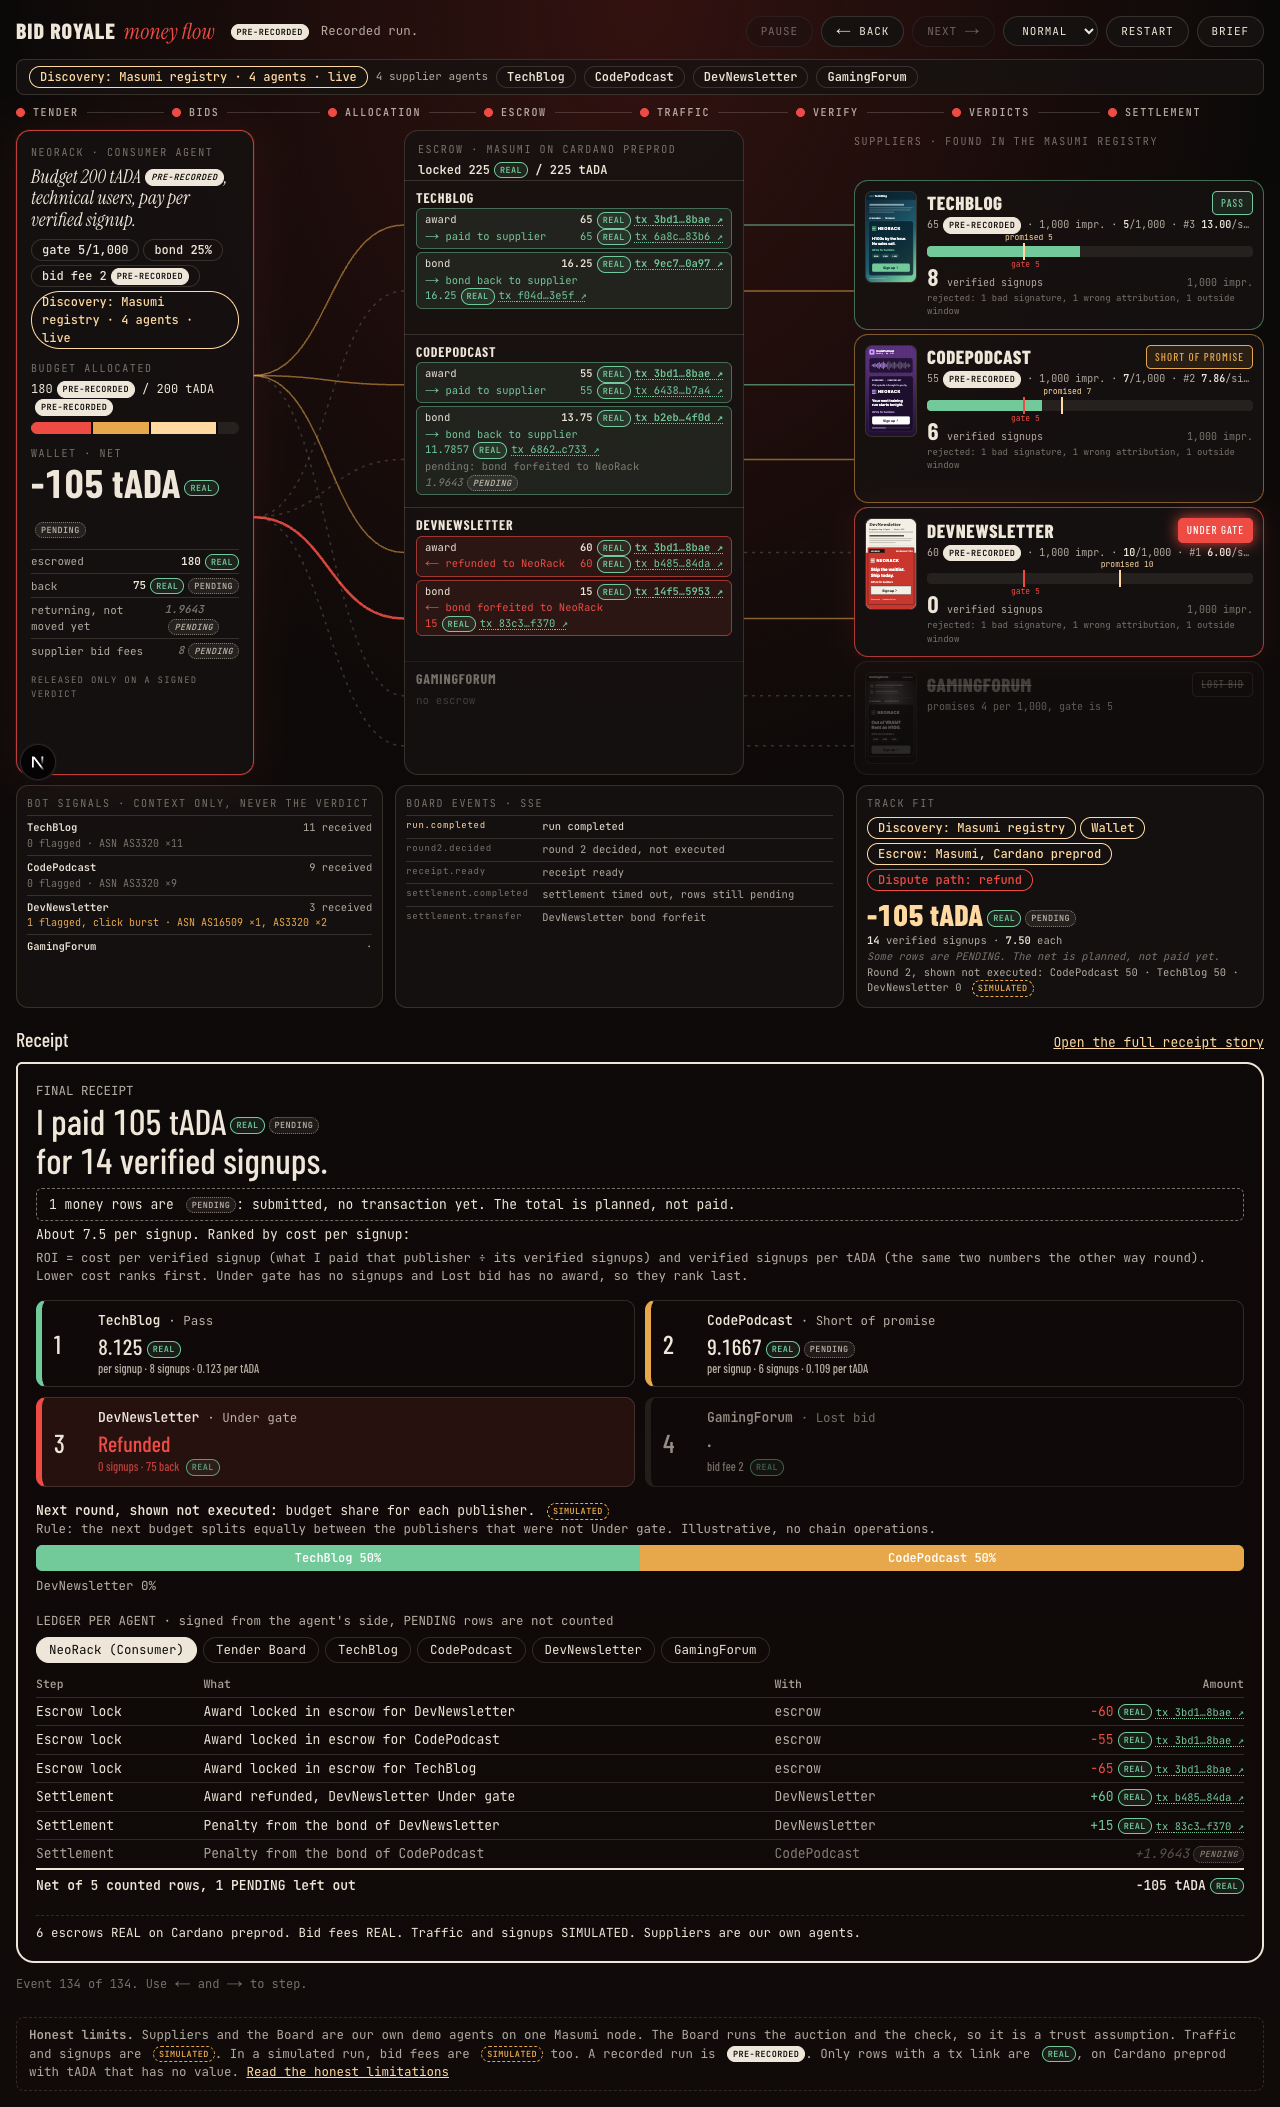
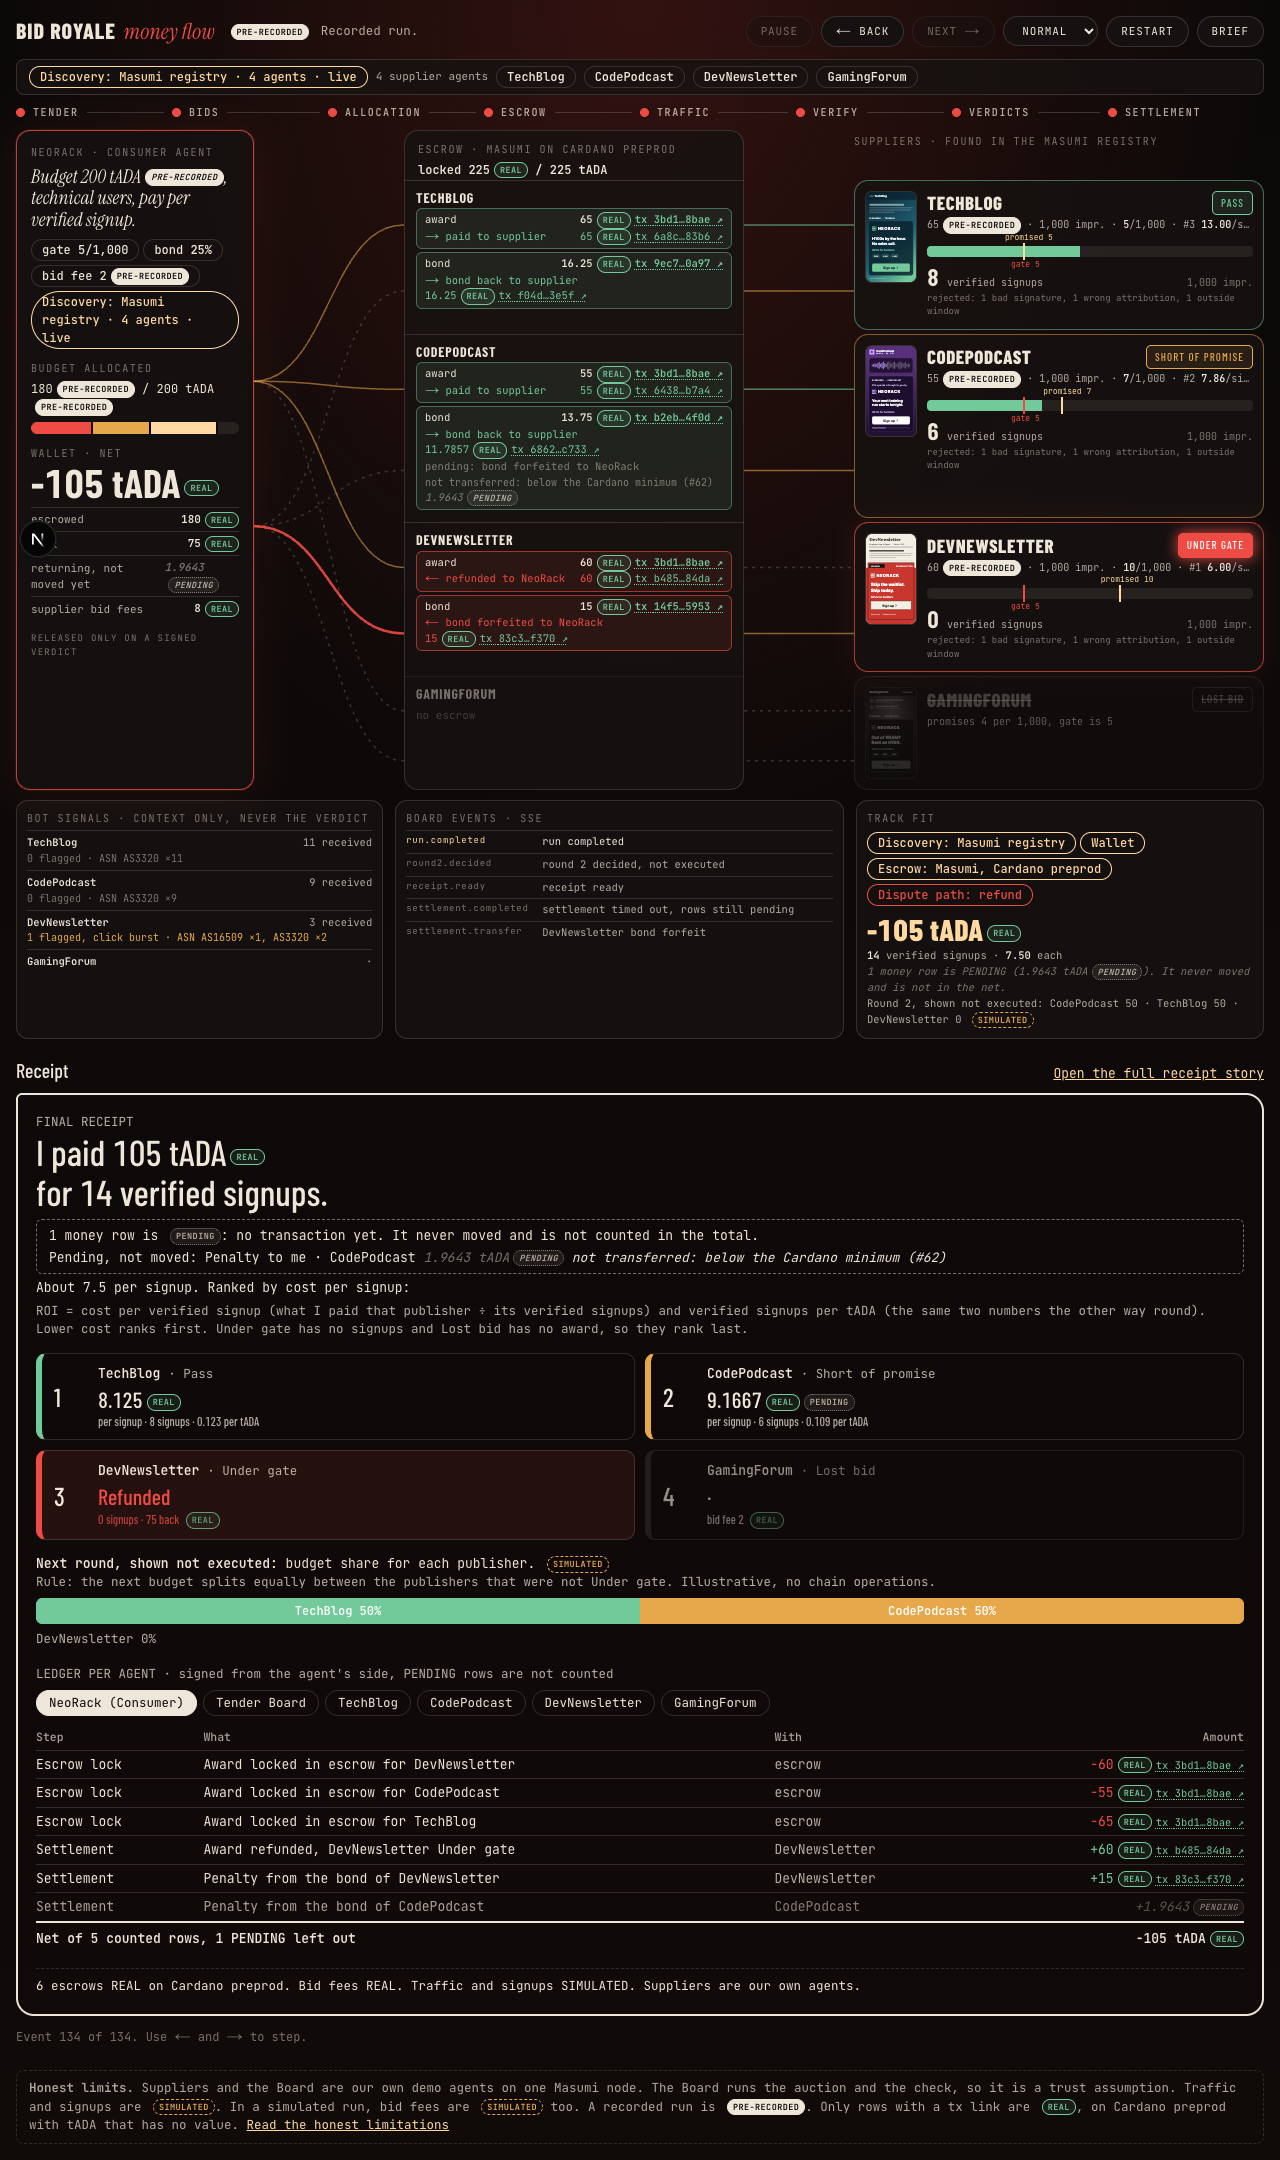
fix(receipt): pending note matches the counted net (#43)
The net already leaves out PENDING rows (#62), but the total badge, the wallet
back badge and the mini receipt badge were built from every row to the
Consumer, so the forfeit that never moved added a PENDING badge to a REAL
total. Badges now follow the counted rows, PENDING only when none moved. The
notes say the row never moved and is not counted, with its amount.

diff --git a/app/lib/receipt-view/net-badge.test.js b/app/lib/receipt-view/net-badge.test.js
@@ -1,0 +1,48 @@
+import test from "node:test";
+import assert from "node:assert/strict";
+import { readFileSync } from "node:fs";
+import { reduceEvents } from "../dashboard/reduce.js";
+import { buildDashboardView } from "../dashboard/view.js";
+import { buildReceiptView } from "./index.js";
+
+// The recorded run run_c1f40522 as served: CodePodcast's 1.964286 forfeit is PENDING (BelowMinimum), every other row REAL. #62
+const { run, events } = JSON.parse(readFileSync(new URL("../../data/canned/run.json", import.meta.url), "utf8"));
+const dash = (list = events) => buildDashboardView(reduceEvents(list, { replay: true }));
+const BELOW = 1.964286;
+
+test("dashboard net and mini receipt: the badge follows the counted rows, so REAL only (#43)", () => {
+  const v = dash();
+  assert.equal(v.receipt.net, -105);
+  assert.equal(v.receipt.signups, 14);
+  assert.equal(v.receipt.costPerSignup, 7.5);
+  assert.deepEqual(v.receipt.badges, ["REAL"]);
+  assert.deepEqual(v.wallet.badgesOut, ["REAL"]);
+  assert.deepEqual(v.wallet.badgesBack, ["REAL"]);
+});
+
+test("dashboard: the PENDING row is reported once, with its amount, and is not in the net (#43)", () => {
+  const v = dash();
+  assert.equal(v.receipt.pending, true);
+  assert.equal(v.receipt.pendingRows, 1);
+  assert.equal(v.receipt.pendingAmount, BELOW);
+  assert.equal(v.wallet.back, 75);
+  assert.equal(v.wallet.pendingBack, BELOW);
+  assert.equal(v.wallet.net, -105);
+});
+
+test("receipt page: 'I paid 105' carries REAL only, the PENDING row is a note, not a badge (#43)", () => {
+  const view = buildReceiptView(structuredClone(run));
+  assert.equal(view.final.paid, 105);
+  assert.deepEqual(view.final.badges, ["REAL"]);
+  assert.equal(view.pendingRows, 1);
+  assert.equal(view.pending.rows[0].amount, BELOW);
+  assert.equal(view.pending.toConsumer, BELOW);
+});
+
+test("when nothing counted has moved yet, the total badge is PENDING, never empty (#43)", () => {
+  const r = structuredClone(run);
+  const open = (l) => (l.to === "consumer" || l.action === "award" ?{ ...l, badge: "PENDING", txHash: null, explorerUrl: null } : l);
+  r.ledger = r.ledger.map(open);
+  r.settlement.transfers = r.settlement.transfers.map(open);
+  assert.deepEqual(buildReceiptView(r).final.badges, ["PENDING"]);
+});

diff --git a/app/lib/dashboard/view.js b/app/lib/dashboard/view.js
@@ -155,6 +155,8 @@ export function buildDashboardView(state, { signals = null } = {}) {
   const toConsumer = money.filter((m) => m.phase === "settlement" && m.to === "consumer");
   const moved = (rows) => rows.filter((m) => !m.pending);
   const pend = (rows) => rows.filter((m) => m.pending);
+  /** Badges of the rows a figure counts. A PENDING row is not in the sum, so it is not in the badge either, unless no row moved. */
+  const countedBadges = (rows) => uniqueBadges((moved(rows).length ? moved(rows) : rows).map((m) => m.badge));
   const out = sum(moved(awardLocks));
   const back = sum(moved(toConsumer));
   const accepted = state.order.map((id) => state.suppliers[id]).filter((s) => s.accepted).sort((a, b) => (a.rank ?? 9) - (b.rank ?? 9));
@@ -198,8 +200,8 @@ export function buildDashboardView(state, { signals = null } = {}) {
       net: round(back - out),
       pendingOut: sum(pend(awardLocks)),
       pendingBack: sum(pend(toConsumer)),
-      badgesOut: uniqueBadges(awardLocks.map((m) => m.badge)),
-      badgesBack: uniqueBadges(toConsumer.map((m) => m.badge)),
+      badgesOut: countedBadges(awardLocks),
+      badgesBack: countedBadges(toConsumer),
     },
     escrow: {
       locked: sum(moved(locks)),
@@ -230,7 +232,9 @@ export function buildDashboardView(state, { signals = null } = {}) {
           net: receiptFigures(state.receipt, pend(toConsumer)).net,
           signups: state.receipt.consumer?.signups ?? null,
           costPerSignup: receiptFigures(state.receipt, pend(toConsumer)).costPerSignup,
-          badges: uniqueBadges([...awardLocks, ...toConsumer].map((m) => m.badge)),
+          badges: countedBadges([...awardLocks, ...toConsumer]),
+          pendingRows: pend(money).length,
+          pendingAmount: sum(pend(money)),
           pending: money.some((m) => m.pending),
         }
       : null,

diff --git a/app/app/_components/Dashboard.js b/app/app/_components/Dashboard.js
@@ -652,7 +652,11 @@ function TrackFit({ view }) {
         {r ? (
           <div className="mt-1 text-[10.5px] leading-[1.5] text-ink-2">
             <b className="text-ink">{r.signups}</b> verified signups · <b className="text-ink">{r.costPerSignup === null ? "·" : Number(r.costPerSignup).toFixed(2)}</b> each
-            {r.pending ? <div className="italic text-ink-3">Some rows are PENDING and left out of the net: not moved.</div> : null}
+            {r.pending ? (
+              <div className="italic text-ink-3" data-testid="mini-pending-note">
+                {r.pendingRows} money {r.pendingRows === 1 ? "row is" : "rows are"} PENDING (<Money amount={r.pendingAmount} badge="PENDING" currency={view.currency} />). {r.pendingRows === 1 ? "It never moved and is" : "They never moved and are"} not in the net.
+              </div>
+            ) : null}
             {view.roundTwo ? (
               <div>
                 Round 2, shown not executed: {view.roundTwo.map((x) => `${x.name} ${Math.round(x.share * 100)}`).join(" · ")} <Badge kind="SIMULATED" />

diff --git a/app/app/receipt/ReceiptClient.js b/app/app/receipt/ReceiptClient.js
@@ -385,7 +385,7 @@ export function FinalReceipt({ view }) {
       </div>
       {view.pendingRows > 0 ? (
         <div className="mt-2 rounded-md border border-dashed border-ink-3 px-3 py-1.5 text-[13px]" data-testid="pending-note">
-          {view.pendingRows} money {view.pendingRows === 1 ? "row is" : "rows are"} <Badge kind="PENDING" />: no transaction yet. The total counts only money that moved.
+          {view.pendingRows} money {view.pendingRows === 1 ? "row is" : "rows are"} <Badge kind="PENDING" />: no transaction yet. {view.pendingRows === 1 ? "It never moved and is" : "They never moved and are"} not counted in the total.
           {view.pending.rows.map((r) => (
             <div key={r.id} data-testid="pending-row" className="mt-0.5">
               Pending, not moved: {r.label} · {r.name} <Money amount={r.amount} badge="PENDING" currency={view.currency} />

diff --git a/app/lib/receipt-view/index.js b/app/lib/receipt-view/index.js
@@ -172,10 +172,12 @@ export function buildReceiptView(run) {
     costPerSignup: fallback.signups > 0 ? round(-fallbackNet / fallback.signups) : null,
   };
 
-  const netBadges = uniqueBadges([
+  // The total counts moved rows only (#62), so its badge follows them. A PENDING row is listed in the note, not in the badge.
+  const netRows = [
     ...awardLocks.map((l) => l.badge),
     ...(run?.settlement?.transfers ?? []).filter((t) => t.to === "consumer").map((t) => deriveBadge(t, { mode })),
-  ]);
+  ];
+  const netBadges = uniqueBadges(netRows.some((b) => b !== "PENDING") ? netRows.filter((b) => b !== "PENDING") : netRows);
 
   const leaderboard = (receipt?.leaderboard ?? []).map((r) => {
     const returned = round(r.awardReclaimed + r.bondForfeited);
